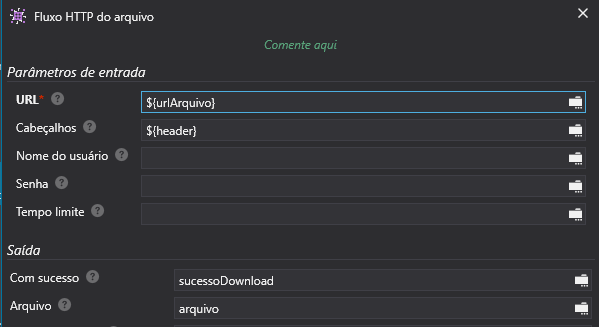
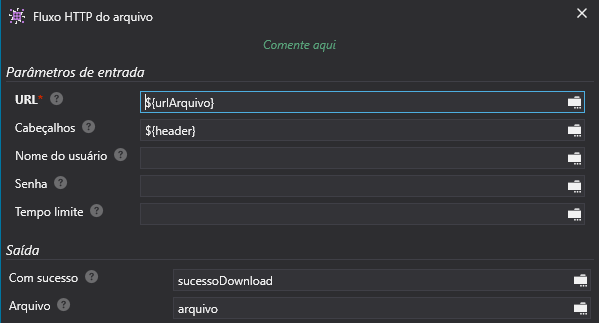
adicionado conhecimentos de map excel ODBC, executar leitor SQL e regex

diff --git a/01_Projetos/IBM_RPA/Comodato_Faturas_Energia.md b/01_Projetos/IBM_RPA/Comodato_Faturas_Energia.md
@@ -1,15 +1,13 @@
 ---
 type: projeto
-status: ativo
-cliente: VTAL
+status: finalizado
+cliente: "[[dados_sensiveis#cliente_comodato]]"
 data_produção: 02/2024
 tags:
   - ibm-rpa
   - projeto
-  - vtal
 ---
-
-# Projeto: Comodato Faturas de Energia - VTAL
+# Projeto: Comodato Faturas de Energia
 
 ## Objetivo
 
@@ -21,9 +19,9 @@ Receber mensalmente um arquivo comodato de excel que contenha unidades consumido
 - Valor da Nota Fiscal
 Se houver divergência de informação, aquela fatura não será paga naquele mês. Ao final do processamento é gerado um arquivo excel com o relatório comparativo dos campos informando se houve ou não divergência de informação. 
 
-O projeto possui mais de 90 templates mapeados via regex e OCR, cada um para uma concessionária de energia diferente no país. 
+O projeto possui mais de 90 templates mapeados via [[regex]] e OCR, cada um para uma concessionária de energia diferente no país. 
 
-Antes de começar o mapeamento de cada fatura, o robô insere TODAS as linhas do excel em 2 tabelas de controle. Ao final do do processamento e validação, é inserido o relatório final em uma terceira tabela que é refletida no [Cognos](https://www.ibm.com/br-pt/products/cognos-analytics). 
+Antes de começar o mapeamento de cada fatura, o robô insere TODAS as linhas do excel em 2 tabelas de controle no banco. Ao final do processamento e validação, é inserido o relatório final em uma terceira tabela que é refletida no [Cognos](https://www.ibm.com/br-pt/products/cognos-analytics). 
 
 ## Print da Lógica Principal
 ![[{{fluxo_comodato_vtal.png}}]]
@@ -39,18 +37,21 @@ Antes de começar o mapeamento de cada fatura, o robô insere TODAS as linhas do
 ```
 Projeto: Comodato Faturas de Energia
 ├── Orquestrador: Executor principal. Ativa todos os outros scripts.
-├───── Inserir dados tabela 1: Adiciona registros na tabela 1
-├───── Inserir dados tabela 2: Adiciona registros na tabela 2
-├───── Baixar arquivo: Script para baixar arquivo (http)
+├───── Inserir dados tabela 1: Script para adicionar registros na tabela 1
+├───── Inserir dados tabela 2: Script para adicionar registros na tabela 2
+├───── Baixar arquivo: Script para baixar todas as faturas via http (uma de cada vez)
 ├───── Valida arquivo: Valida se o pdf é válido, se é imagem (sem texto)
-├───── Mapear template: identifica qual concessionária e chama script de acordo
+├───── Mapear template: identifica concessionária, chamar script da mesma e usar regex/OCR para capturar todas as informações necessárias
 ├───── Validar regras: faz match das informações para saber se está divergente
+├───── Gerar relatório final: gerar excel com as informações de divergência ou match de cada linha
 ```
 
 ## Comandos Utilizados
-- [[T_Comando_IBM|Comando 1]]
-- [[T_Comando_IBM|Comando 2]]
-- [[T_Comando_IBM|Comando 3]]
+- [[Regex]]
+- [[02_Base_Conhecimento/IBM_RPA/Fluxo_HTTP_Arquivo|Fluxo HTTP do Arquivo]]
+- [[map_excel_ODBC|Conectar ao ODBC]]
+- [[executar_leitor_SQL|Executar o leitor de SQL]]
+- 
 
 ## Manutenção
 ### Verificações Regulares
@@ -60,11 +61,6 @@ Projeto: Comodato Faturas de Energia
 ### Pontos de Atenção
 - {{Risco/problema potencial 1}}
 - {{Risco/problema potencial 2}}
-
-## Histórico de Mudanças
-| Data | Alteração | Responsável |
-|------|-----------|------------|
-| {{YYYY-MM-DD}} | Criação do projeto | {{Nome}} |
 
 ## Contato
 - **Responsável**: {{Nome}}

diff --git a/02_Base_Conhecimento/IBM_RPA/executar_leitor_SQL.md b/02_Base_Conhecimento/IBM_RPA/executar_leitor_SQL.md
@@ -1,0 +1,28 @@
+---
+type: comando
+tags: [ibm-rpa, comando]
+---
+# Comando: Executar o leitor de SQL
+
+## Descrição
+Executa um comando SQL à partir de uma conexão de banco.
+
+## Print do Fluxo
+![[executa_leitor_SQL.png|596]]
+*Legenda: tool 'Executar o leitor de SQL'
+
+## Sintaxe/Parâmetros
+- **Conexão**: Informa a conexão de banco criada
+- **Declaração**: query normal de SQL
+- **Tabela de dados**: a tabela que será gerada
+- **Linhas/Colunas**: quantidade de linhas e colunas na tabela gerada
+
+## Links Relacionados
+- [[map_excel_ODBC]] irá gera a conexão que será usada para mapear o excel por tabela SQL
+
+## Observações Práticas
+- dentro dos colchetes é informado o nome da sheet que será mapeada e é obrigatório deixar '$' no final, caso contrário não irá identificar a sheet. 
+- é possível também parametrizar a sheet trazendo dinâmica e não algo estático.
+
+## Troubleshooting
+- **Problema comum**: {{Solução}}

diff --git a/02_Base_Conhecimento/IBM_RPA/map_excel_ODBC.md b/02_Base_Conhecimento/IBM_RPA/map_excel_ODBC.md
@@ -1,0 +1,26 @@
+---
+type: comando
+tags: [ibm-rpa, comando]
+---
+# Comando: Conectar ao ODBC
+
+## Descrição
+Cria uma conexão de banco para uma tabela excel.
+
+## Print do Fluxo![[conectar_ODBC.png]]
+*Legenda: tool 'Conectar ao ODBC'
+
+## Sintaxe/Parâmetros
+- **Sequência de conexões**: Informa driver para criar conexão
+- **Conexão**: output que cria a conexão de banco
+- **DBQ (variável pathTempalteComodato)**: informa o caminho do arquivo excel para criar a conexão
+
+
+## Links Relacionados
+- [[executar_leitor_SQL]] irá gerar a tabela com a conexão criada
+
+## Observações Práticas
+- A variável de output arquivo é o diretório com arquivo baixado
+
+## Troubleshooting
+- **Problema comum**: {{Solução}}

diff --git a/02_Base_Conhecimento/IBM_RPA/Regex.md b/02_Base_Conhecimento/IBM_RPA/Regex.md
@@ -2,7 +2,6 @@
 type: comando
 tags: [ibm-rpa, comando]
 ---
-
 # Comando: Obter texto de expressão regular
 
 ## Descrição
@@ -11,21 +10,28 @@ Capturar o texto literal desejado.
 ## Print do Fluxo
 ![[regex.png]]
 
-*Legenda: tool 'Fluxo HTTP do arquivo'
+*Legenda: tool 'Obter texto de expressão regular'
 
 ## Sintaxe/Parâmetros
-- **Parâmetro 1**: URL arquivo para download
-- **Parâmetro 2**: header (se for vazio também funciona)
+- **Opções**: 'Várias linhas' e 'Ignorar tipo de letra'
+- **Número do grupo**: se o regex estiver entre vários parênteses e houver mais de um match, o 'grupo' significa qual índice que será capturado (1, 2, 3, 4)
+- **Obter por índice**: mesma regra se aplica acima ![[regex_match_por_indice.png]]
+
 
 
 ## Links Relacionados
 - [[Comodato_Faturas_Energia]]
-- [[{{outro_comando}}|Comandos similares]]
 
-## Observações Práticas
-- {{Dica importante 1}}
-- {{Dica importante 2}}
-- Comum em: {{Contextos onde é usado}}
+## Observações Práticas (utilitários)
+- captura quebra de linha: \n
+- captura caracteres de whitespace: \s
+- captura token anterior de zero a infinito: * (greedy)
+- captura qualquer palavra: \p{L}+
+- captura texto contido em um range de palavras: [\s\S]+? 
+	- Exemplo: Impostos\s*Valor([\s\S]+?)Grandeza (tudo que estiver contido entre 'Impostos Valor' e 'Grandeza' será capturado)
+-  captura mais de uma opção se identificada:  |
+- se for usar sinais gráficos (ponto, vírgula, barra, etc) gosto sempre de usar contra barra (\) antes
+	- Exemplo: \- \/ \(
 
 ## Troubleshooting
 - **Problema comum**: {{Solução}}

diff --git a/02_Base_Conhecimento/IBM_RPA/Fluxo_HTTP_Arquivo.md b/02_Base_Conhecimento/IBM_RPA/Fluxo_HTTP_Arquivo.md
@@ -2,30 +2,24 @@
 type: comando
 tags: [ibm-rpa, comando]
 ---
-
 # Comando: Fluxo HTTP do arquivo
 
 ## Descrição
-Usado para fazer download de arquivo em URL via HTTP.
+Usado para fazer download de arquivo via URL.
 
-## Print do Fluxo
-![[04_Prints/fluxo_http_arquivo]]
-
+## Print do Fluxo![[fluxo_http_arquivo.png]]
 *Legenda: tool 'Fluxo HTTP do arquivo'
 
 ## Sintaxe/Parâmetros
-- **Parâmetro 1**: URL arquivo para download
-- **Parâmetro 2**: header (se for vazio também funciona)
+- **URL**: URL do arquivo para download
+- **Cabeçalho (header)**: se for vazio também funciona dependendo da request
 
 
 ## Links Relacionados
 - [[Comodato_Faturas_Energia]]
-- [[{{outro_comando}}|Comandos similares]]
 
 ## Observações Práticas
-- {{Dica importante 1}}
-- {{Dica importante 2}}
-- Comum em: {{Contextos onde é usado}}
+- A variável de output arquivo é o diretório com arquivo baixado
 
 ## Troubleshooting
 - **Problema comum**: {{Solução}}

diff --git a/00_Templates/T_Projeto_RPA.md b/00_Templates/T_Projeto_RPA.md
@@ -43,11 +43,6 @@ Projeto: {{NOME_DO_PROJETO}}
 - {{Risco/problema potencial 1}}
 - {{Risco/problema potencial 2}}
 
-## Histórico de Mudanças
-| Data | Alteração | Responsável |
-|------|-----------|------------|
-| {{YYYY-MM-DD}} | {{Descrição da mudança}} | {{Nome}} |
-
 ## Contato
 - **Responsável**: {{Nome}}
 - **Suporte**: [[03_Solucoes_e_Erros|Guia de troubleshooting]]